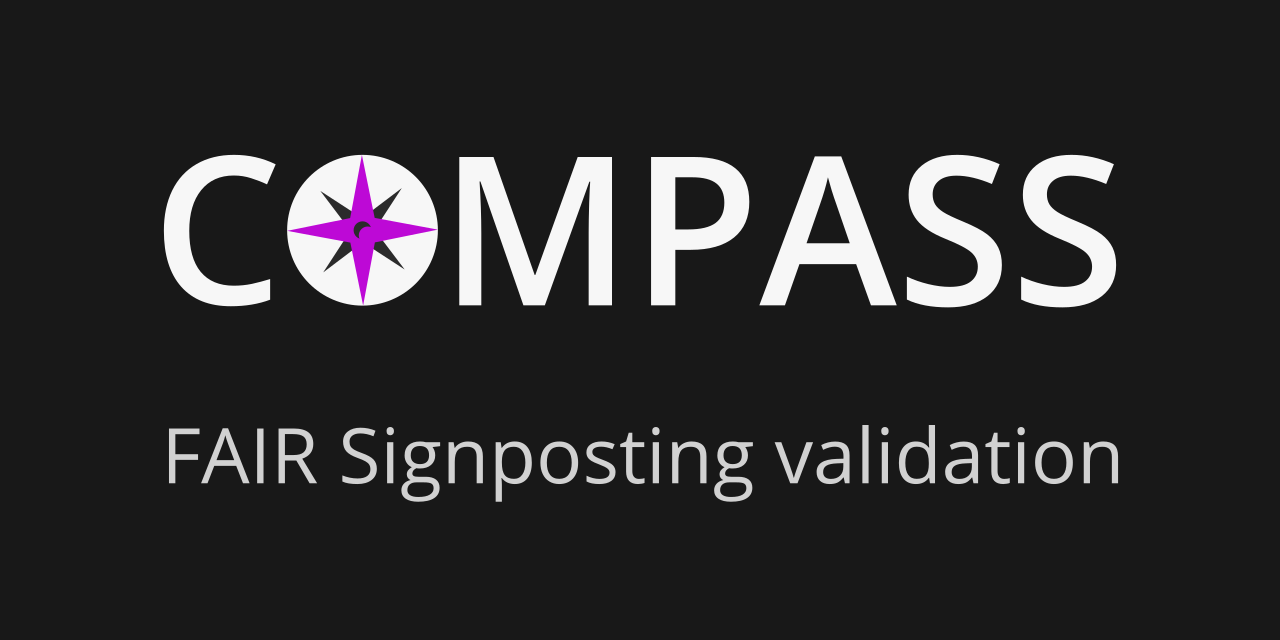
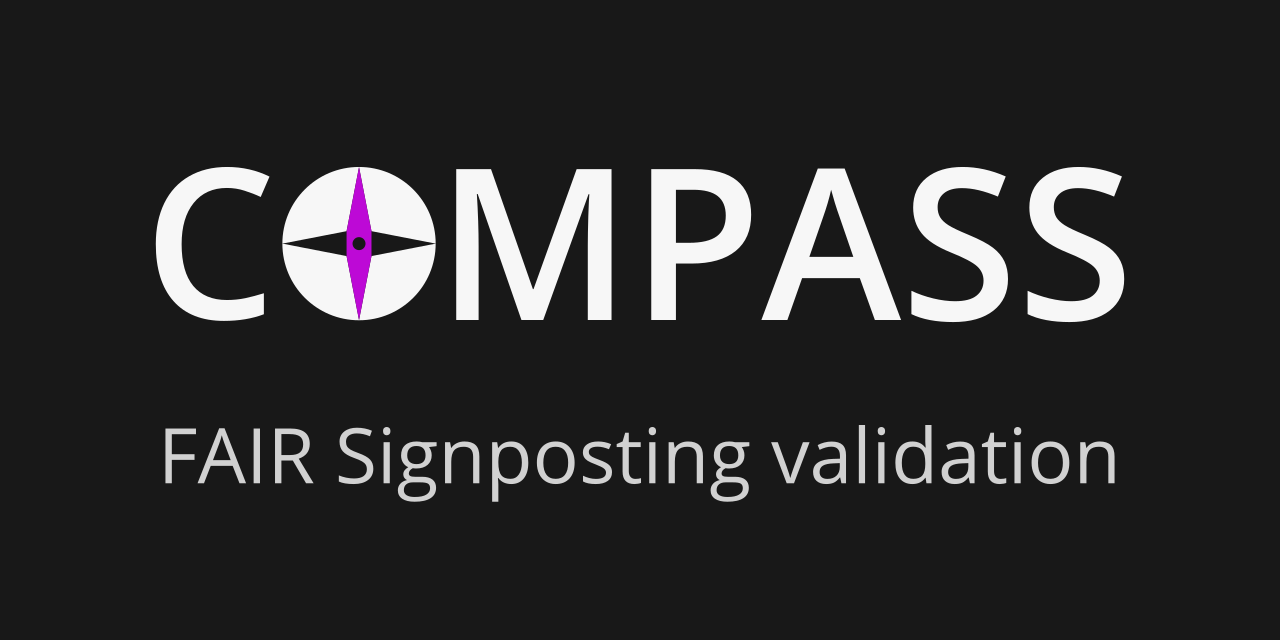
Apply design changes from Shraddha

Changed region(s): [[0.0938, 0.2188, 0.6875, 0.5], [0.125, 0.6562, 0.875, 0.7812], [0.6562, 0.2188, 0.875, 0.5]]

diff --git a/assets/logo/LICENSE.md b/assets/logo/LICENSE.md
@@ -1,9 +1,10 @@
 # Compass Logo and Icon License
 
-Copyright © 2026 Sven Fillinger
+Copyright © 2026 Sven Fillinger and Shraddha Pawar
 
 Logo and icon design by:
 - Sven Fillinger (sven.fillinger@uni-tuebingen.de)
+- Shraddha Pawar (shraddha-prakash.pawar@qbic.uni-tuebingen.de)
 
 ---
 
